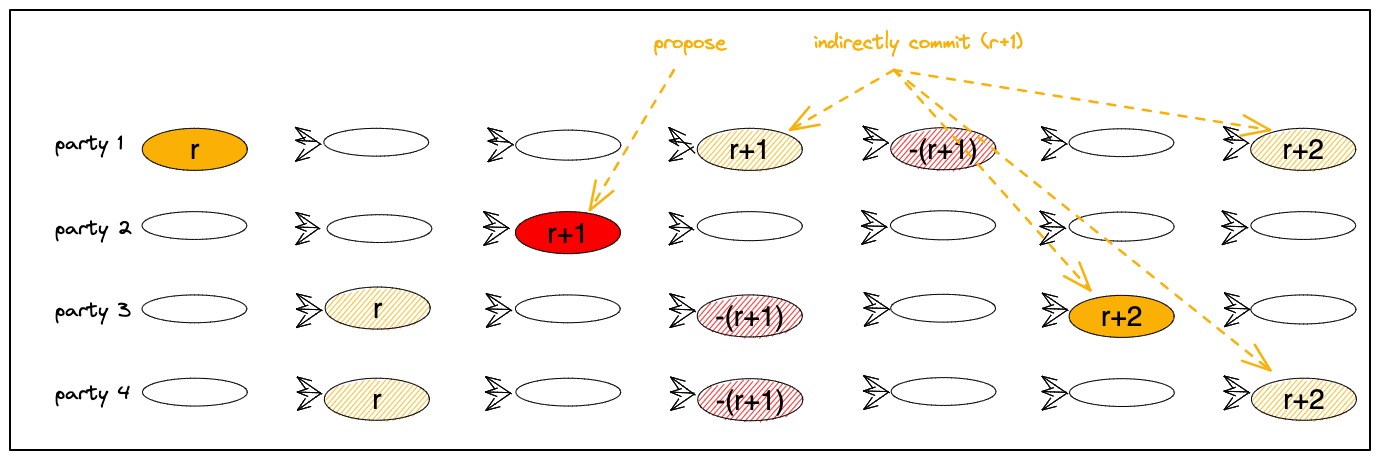
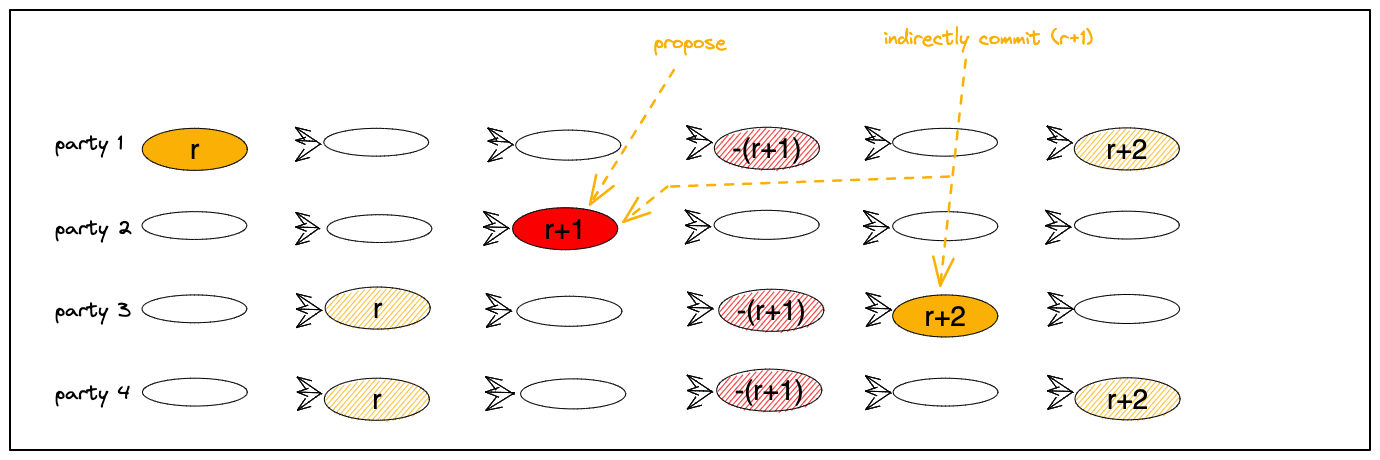
working on DAG draft

diff --git a/_drafts/DAG-BFT.md b/_drafts/DAG-BFT.md
@@ -377,9 +377,8 @@ Hence, faulty views have utility in advancing the global sequence of transaction
 
 
 A slightly more complex scenario is depicted in [**Figure 5**](#Figure-Partial-Fault) below. 
-Here, `leader(r+1)` emits `proposal(r+1)` that receives one vote by party 1.
-However, the proposal is too slow to arrive at parties 3 and 4, and both parties complain about a view failure.
-There is no quorum enabling a commit in `view(r+1)`, nor entering `view(r+2)`. Eventually, party 1 also times out and complains about `view(r+1)`. This enables `view(r+2)` to start. `view(r+2)` is similar to the scenario in [**Figure 4**](#Figure-Fault) above, except that when `proposal(r+2)` commits, it indirectly commits `proposal(r+1)`. 
+Here, `leader(r+1)` emits `proposal(r+1)` that is too slow to arrive and parties 1, 3 and 4, complain about a view failure.
+This enables `view(r+2)` to start and progress to commit `proposal(r+2)`.  When `proposal(r+2)` commits, it indirectly commits `proposal(r+1)`. 
 
   <span id="Figure-Partial-Fault"></span>
 
@@ -404,6 +403,9 @@ though a formal proof of correctness is beyond the scope of this post.
 then it is in the causal past of 2F+1 parties that voted for it.
 A proposal in any future view must refer directly or indirectly to 2F+1 `view(r)` messages (votes or complaints), of which F+1 are votes for `proposal(r)`.
 A commit in such a future view causally follows F+1 votes for `proposal(r)`, hence, it (re-)commits it. 
+
+Note that when `proposal(r)` commits, it may cause a proposal in a lower view, `proposal(r')`, where `r' < r`, to become committed for the first time. 
+Safety holds because future commits will order `proposal(r)` and its causal past recursively.
 
 * **Liveness.** The protocol liveness during periods of synchrony stems from two key mechanisms. 
 
